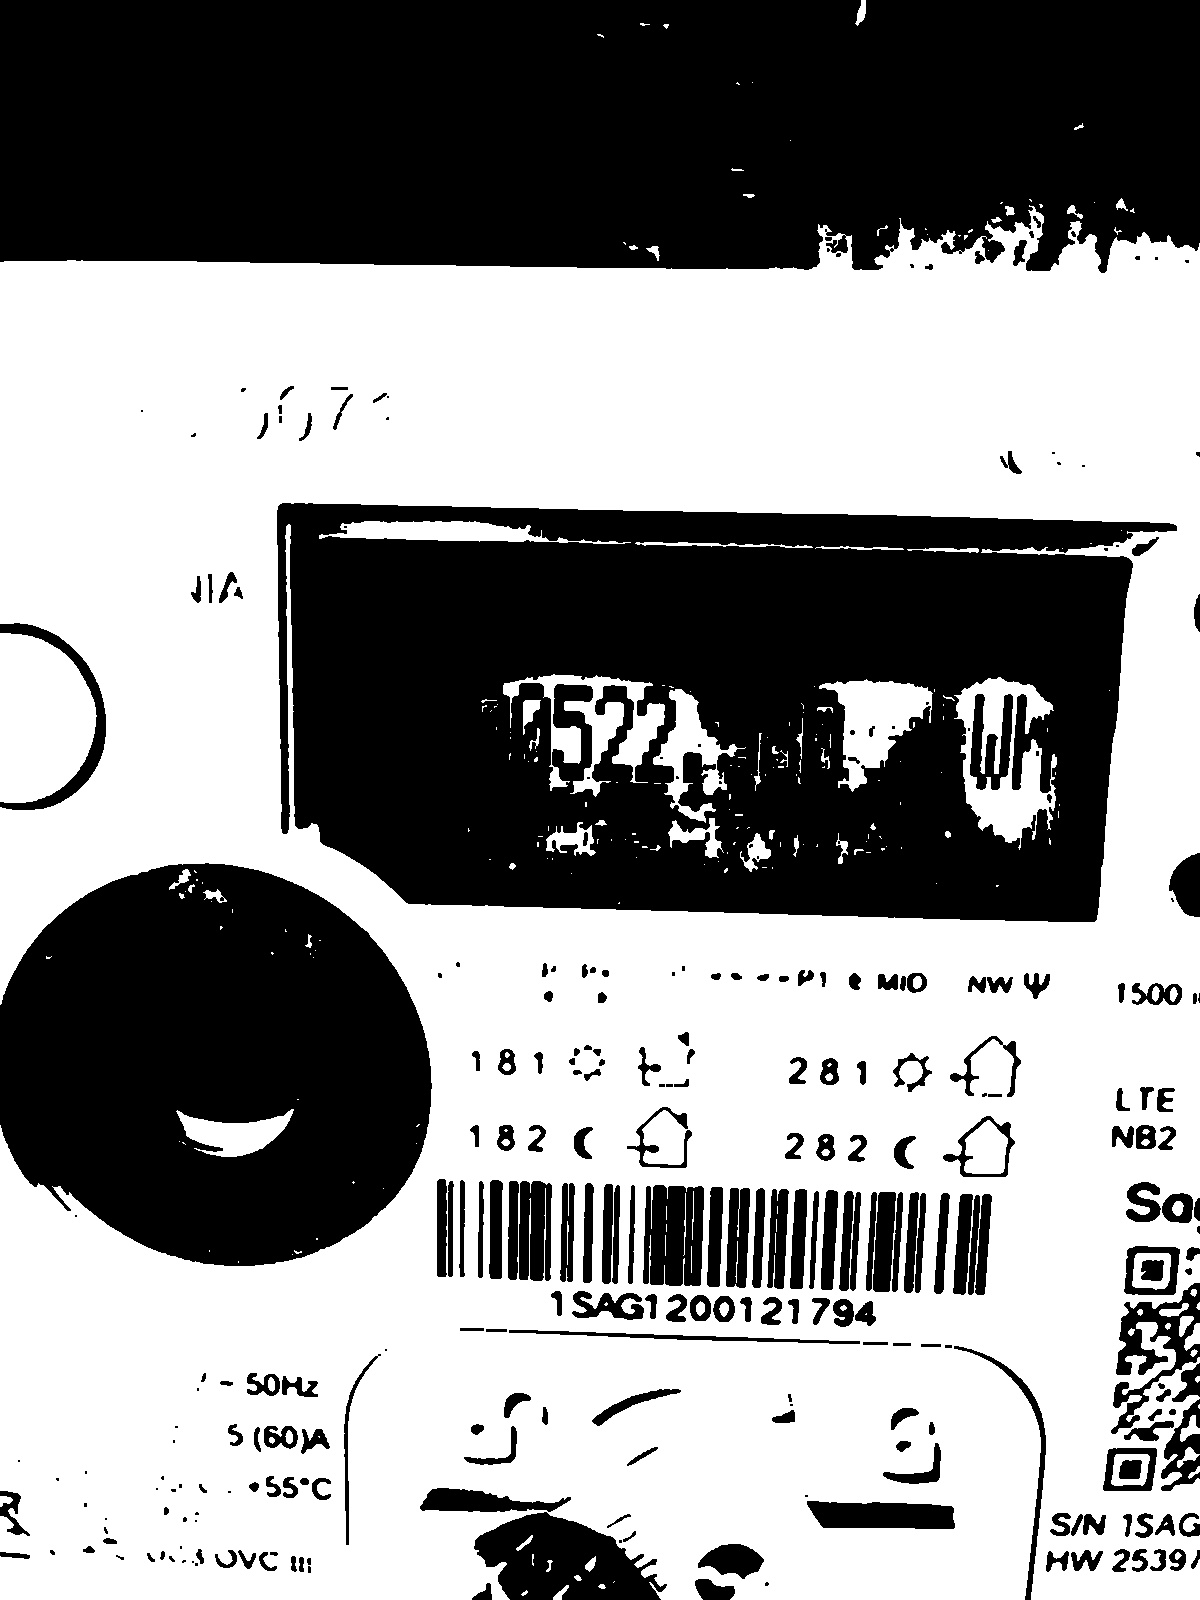
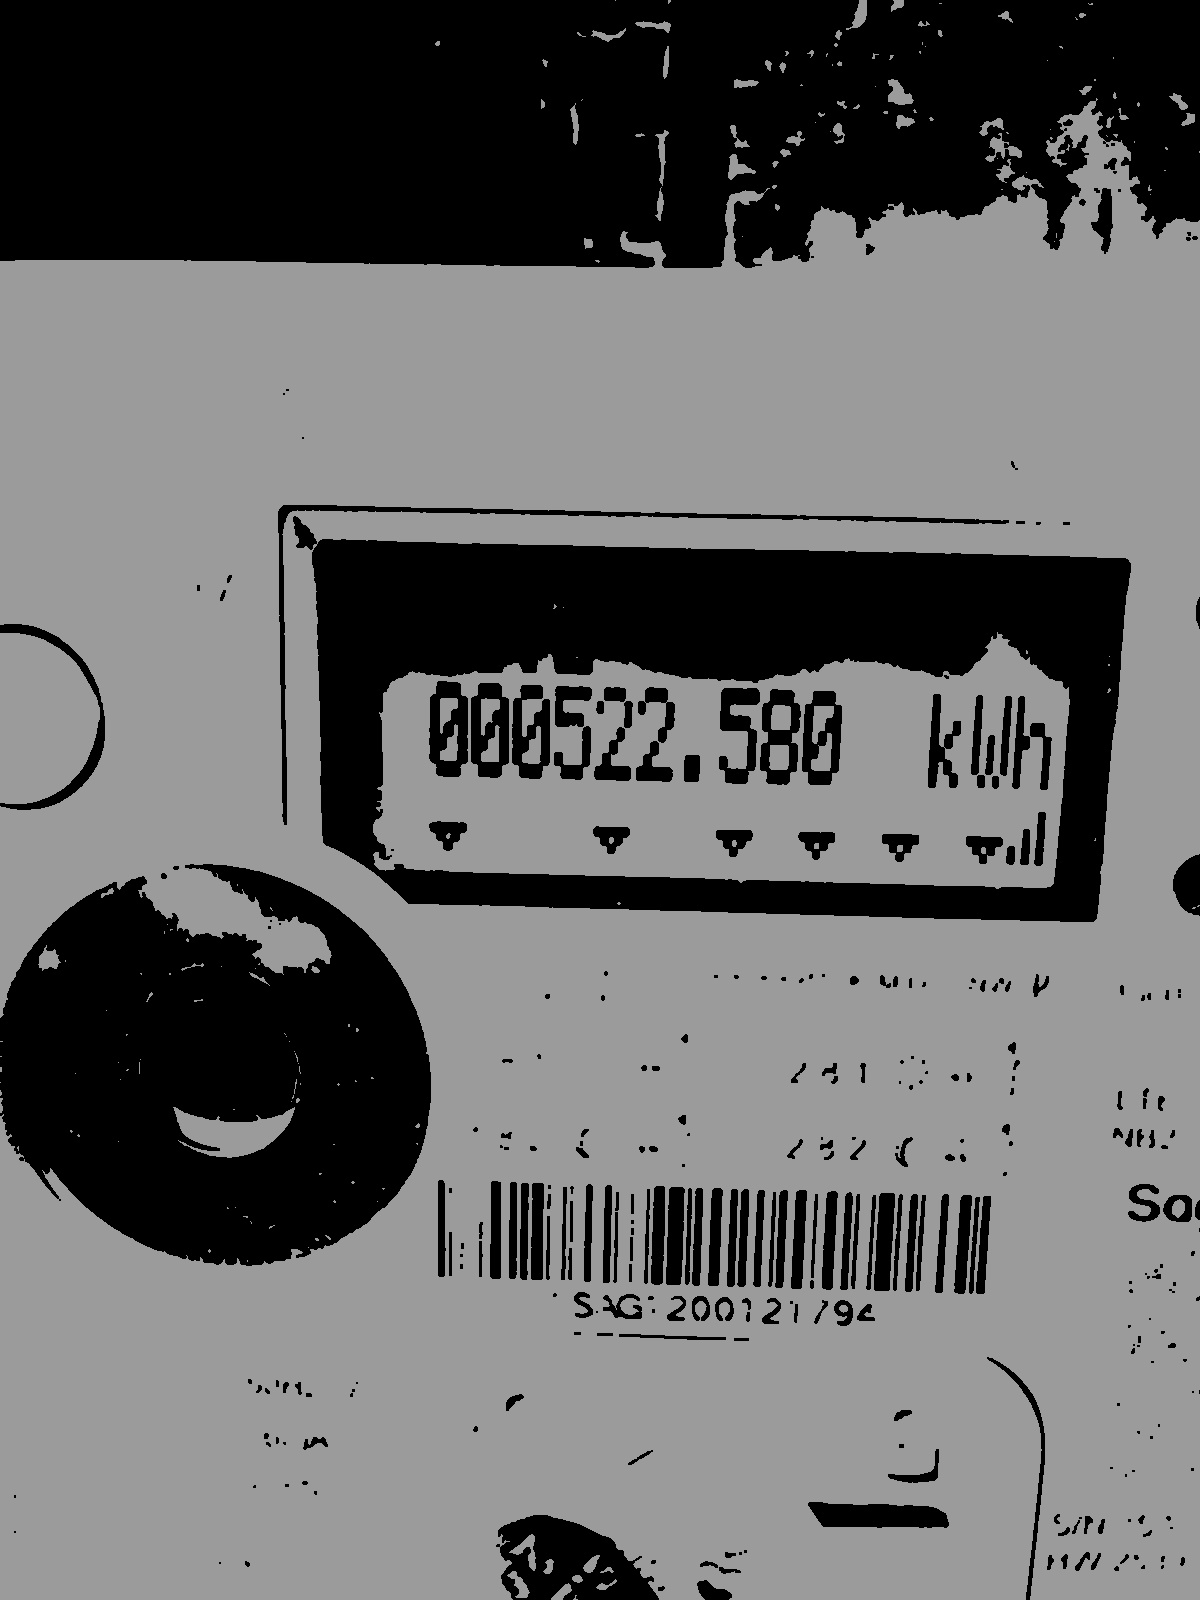
Add files via upload

diff --git a/Neybor test.py b/Neybor test.py
@@ -5,10 +5,8 @@ import cv2 as cv
 from matplotlib import pyplot as plt
 import numpy as np
 
-# ouvrir une image
 image_file = "temp/compteur.jpg"
 
-# vérifier que l'image existe et la charger
 if not os.path.exists(image_file):
     raise FileNotFoundError(f"Image file not found: {image_file}")
 
@@ -16,27 +14,21 @@ img = cv.imread(image_file)
 if img is None:
     raise ValueError(f"Failed to load image: {image_file}")
 
-# Fonction d'affichage avec correction des couleurs BGR -> RGB
 def display_cv_image(image, title="Image"):
-    image_rgb = cv.cvtColor(image, cv.COLOR_BGR2RGB)  # conversion pour affichage correct
+    image_rgb = cv.cvtColor(image, cv.COLOR_BGR2RGB) 
     plt.imshow(image_rgb)
     plt.title(title)
-    plt.axis('off')  # cacher les axes
-    plt.show(block=True)  # important: bloque l'exécution jusqu'à fermeture
+    plt.axis('off') 
+    plt.show(block=True) 
 
-# afficher l'image originale
 display_cv_image(img, "Original")
 
-# inverser les couleurs de l'image et enregistrer
 inverted_image = cv.bitwise_not(img)
 output_file = "temp/inverted.jpg"
 cv.imwrite(output_file, inverted_image)
 
-# afficher l'image inversée
 display_cv_image(inverted_image, "Inversée")
 
-# Rescaling
-# Binarization
 def grayscale(image):
     return cv.cvtColor(image, cv.COLOR_BGR2GRAY)
 
@@ -44,23 +36,19 @@ gray_image = grayscale(img)
 gray_file = "temp/gray.jpg"
 cv.imwrite(gray_file, gray_image)
 
-# afficher l'image en niveaux de gris
 plt.imshow(gray_image, cmap='gray')
 plt.title("Gris")
 plt.axis('off')
 plt.show()
 
-# seuillage binaire
-_, im_bw = cv.threshold(gray_image, 100, 255, cv.THRESH_BINARY)
+_, im_bw = cv.threshold(gray_image, 80, 155, cv.THRESH_BINARY)
 cv.imwrite("temp/bw_image.jpg", im_bw)
 
-# afficher l'image en noir et blanc
 plt.imshow(im_bw, cmap='gray')
 plt.title("Noir et Blanc")
 plt.axis('off')
 plt.show()
 
-# Noise removal
 def noise_removal(image):
     kernel = np.ones((1, 1), np.uint8)
     image = cv.dilate(image, kernel, iterations=1)
@@ -73,7 +61,6 @@ no_noise = noise_removal(im_bw)
 cv.imwrite("temp/no_noise.jpg", no_noise)
 display_cv_image(no_noise, "No Noise")
 
-# Dilation and Erosion
 def thin_font(image):
     image = cv.bitwise_not(image)
     kernel = np.ones((2, 2), np.uint8)
@@ -85,7 +72,6 @@ eroded_image = thin_font(no_noise)
 cv.imwrite("temp/eroded_image.jpg", eroded_image)
 display_cv_image(eroded_image, "Eroded")
 
-#Thick font
 def thick_font(image):
     image = cv.bitwise_not(image)
     kernel = np.ones((2, 2), np.uint8)
@@ -97,23 +83,18 @@ dilated_image = thick_font(no_noise)
 cv.imwrite("temp/dilated_image.jpg", dilated_image)
 display_cv_image(dilated_image, "dilated")
 
-#Rotation / Deskewing
 new = cv.imread("temp/dilated_image.jpg")
 
 def getSkewAngle(cvImage) -> float:
-    # Prep image, copy, convert to gray scale, blur, and threshold
     newImage = cvImage.copy()
     gray = cv.cvtColor(newImage, cv.COLOR_BGR2GRAY)
     blur = cv.GaussianBlur(gray, (9, 9), 0)
     thresh = cv.threshold(blur, 0, 255, cv.THRESH_BINARY_INV + cv.THRESH_OTSU)[1]
 
-    # Apply dilate to merge text into meaningful lines/paragraphs.
-    # Use larger kernel on X axis to merge characters into single line, cancelling out any spaces.
-    # But use smaller kernel on Y axis to separate between different blocks of text
     kernel = cv.getStructuringElement(cv.MORPH_RECT, (30, 5))
     dilate = cv.dilate(thresh, kernel, iterations=2)
 
-    # Find all contours
+    
     contours, hierarchy = cv.findContours(dilate, cv.RETR_LIST, cv.CHAIN_APPROX_SIMPLE)
     contours = sorted(contours, key = cv.contourArea, reverse = True)
     for c in contours:
@@ -121,18 +102,16 @@ def getSkewAngle(cvImage) -> float:
         x,y,w,h = rect
         cv.rectangle(newImage,(x,y),(x+w,y+h),(0,255,0),2)
 
-    # Find largest contour and surround in min area box
     largestContour = contours[0]
     print (len(contours))
     minAreaRect = cv.minAreaRect(largestContour)
     cv.imwrite("temp/boxes.jpg", newImage)
-    # Determine the angle. Convert it to the value that was originally used to obtain skewed image
+   
     angle = minAreaRect[-1]
     if angle < -45:
         angle = 90 + angle
     return -1.0 * angle
 
-# Rotate the image around its center
 def rotateImage(cvImage, angle: float):
     newImage = cvImage.copy()
     (h, w) = newImage.shape[:2]
@@ -141,7 +120,6 @@ def rotateImage(cvImage, angle: float):
     newImage = cv.warpAffine(newImage, M, (w, h), flags=cv.INTER_CUBIC, borderMode=cv.BORDER_REPLICATE)
     return newImage
 
-# Deskew image
 def deskew(cvImage):
     angle = getSkewAngle(cvImage)
     return rotateImage(cvImage, -1.0 * angle)
@@ -150,7 +128,6 @@ fixed = deskew(new)
 cv.imwrite("temp/fixed.jpg", fixed)
 display_cv_image(fixed, "Deskewed")
 
-#Removing borders
 def remove_borders(image):
     contours, hierarchy = cv.findContours(image, cv.RETR_EXTERNAL, cv.CHAIN_APPROX_SIMPLE)
     cntsSorted = sorted(contours, key=lambda x:cv.contourArea(x))
@@ -163,7 +140,6 @@ no_borders = remove_borders(no_noise)
 cv.imwrite("temp/no_borders.jpg", no_borders)
 display_cv_image(no_borders, "No Borders")
 
-# Missing borders
 color = [255, 255, 255]
 top, bottom, left, right = [150]*4
 image_with_borders = cv.copyMakeBorder(no_borders, top, bottom, left, right, cv.BORDER_CONSTANT, value = color)

diff --git a/Neybor meter.py b/Neybor meter.py
@@ -1,0 +1,18 @@
+import pytesseract
+from PIL import Image
+import pandas as pd
+
+pytesseract.pytesseract.tesseract_cmd = r"C:\Program Files\Tesseract-OCR\tesseract.exe"
+
+img_file = "temp/no_noise.jpg"
+#no_noise = 
+
+img = Image.open(img_file)
+ocr_result = pytesseract.image_to_string(img)
+
+df = pd.DataFrame([{"Extracted Text": ocr_result.strip()}])
+output_file = "ocr_output.xlsx"
+df.to_excel(output_file, index=False)
+
+print("OCR result saved to", output_file)
+
